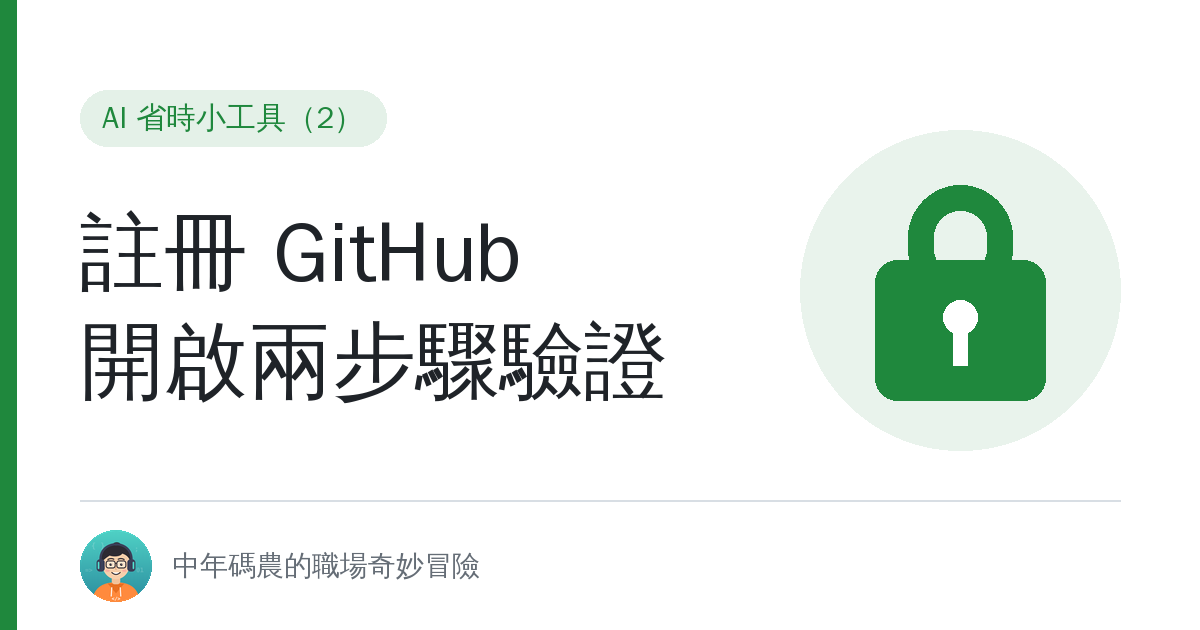
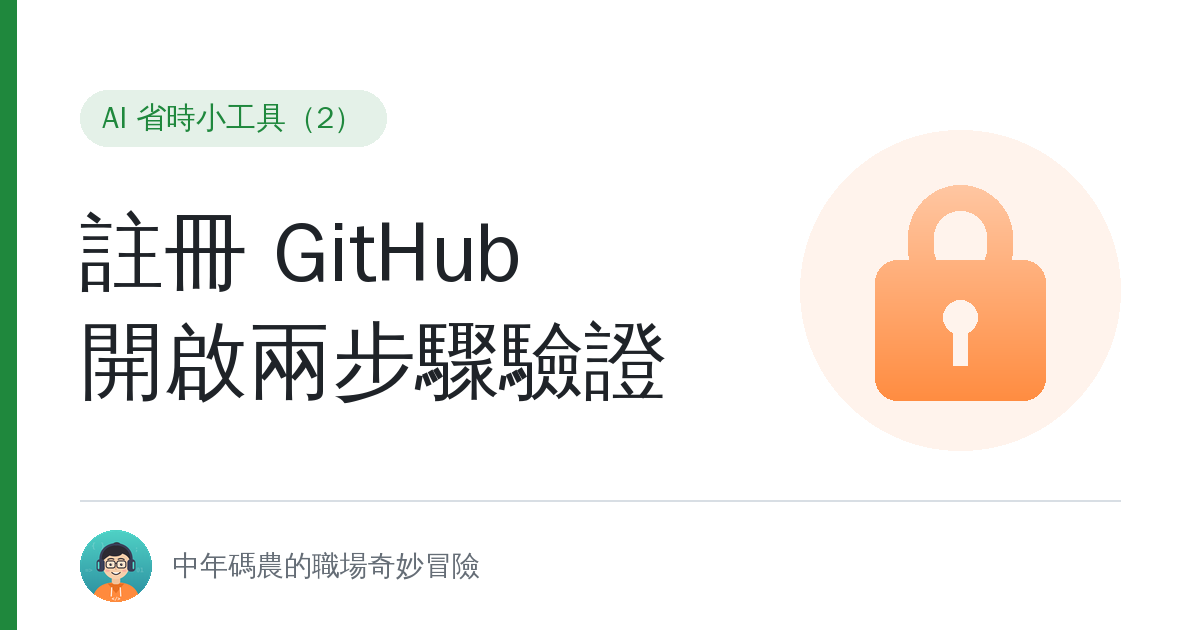
GitHub 教學：封面圖示改橘色白色漸層
Claude-Session: https://claude.ai/code/session_01WPuEZqV4FQ9DDbdFtRJi5r

Changed region(s): [[0.7092, 0.2714, 0.8942, 0.6635]]

diff --git a/scripts/make_cover.py b/scripts/make_cover.py
@@ -55,6 +55,7 @@ def main():
     p.add_argument("--title", action="append", required=True, help="標題，一行一個，最多兩行")
     p.add_argument("--color", required=True, help="主色 hex，例如 1f883d")
     p.add_argument("--icon", choices=ICONS, required=True)
+    p.add_argument("--icon-color", help="圖示顏色 hex，預設同主色；圖示會帶由上往下的白色漸層")
     p.add_argument("--out", required=True)
     a = p.parse_args()
     c = hex2rgb(a.color)
@@ -83,10 +84,26 @@ def main():
         d.text((80, y), t, font=tf, fill=INK)
         y += int(size * 1.3)
 
-    # 右側圖示
+    # 右側圖示：先畫純色，再把純色部分換成「上淺下深」的白色漸層
+    ic = hex2rgb(a.icon_color) if a.icon_color else c
     cx, cy = 960, 290
-    d.ellipse([cx - 160, cy - 160, cx + 160, cy + 160], fill=tint(c, 0.1))
-    ICONS[a.icon](d, cx, cy, c)
+    d.ellipse([cx - 160, cy - 160, cx + 160, cy + 160], fill=tint(ic, 0.1))
+    box = (cx - 120, cy - 120, cx + 120, cy + 120)
+    layer = Image.new("RGB", (W, H), (0, 0, 0))
+    ICONS[a.icon](ImageDraw.Draw(layer), cx, cy, ic)
+    mask = Image.new("L", (box[2] - box[0], box[3] - box[1]), 0)
+    px, mp = layer.crop(box).load(), mask.load()
+    bw, bh = box[2] - box[0], box[3] - box[1]
+    grad = Image.new("RGB", (bw, bh))
+    gp = grad.load()
+    top = tint(ic, 0.45)
+    for yy in range(bh):
+        t = yy / (bh - 1)
+        col = tuple(round(top[i] + (ic[i] - top[i]) * t) for i in range(3))
+        for xx in range(bw):
+            gp[xx, yy] = col
+            mp[xx, yy] = 255 if px[xx, yy] == ic else 0
+    img.paste(grad, box[:2], mask)
 
     # 底部：分隔線＋頭像＋站名
     d.line([80, 500, W - 80, 500], fill=LINE, width=2)

diff --git a/.claude/skills/tutorial-draft/SKILL.md b/.claude/skills/tutorial-draft/SKILL.md
@@ -105,10 +105,10 @@ topics = ['<系列名>']
 
 ```bash
 python3 scripts/make_cover.py --num 2 --title "註冊 GitHub" --title "開啟兩步驟驗證" \
-  --color 1f883d --icon lock --out content/posts/ai-tools/github-signup-2fa/feature.png
+  --color 1f883d --icon lock --icon-color ff8a3d --out content/posts/ai-tools/github-signup-2fa/feature.png
 ```
 
-主色取該篇主角工具的品牌色；新圖示加在腳本的 `ICONS`。
+主色取該篇主角工具的品牌色；圖示可用 `--icon-color` 另外指定顏色（會帶白色漸層）；新圖示加在腳本的 `ICONS`。
 
 ---
 
